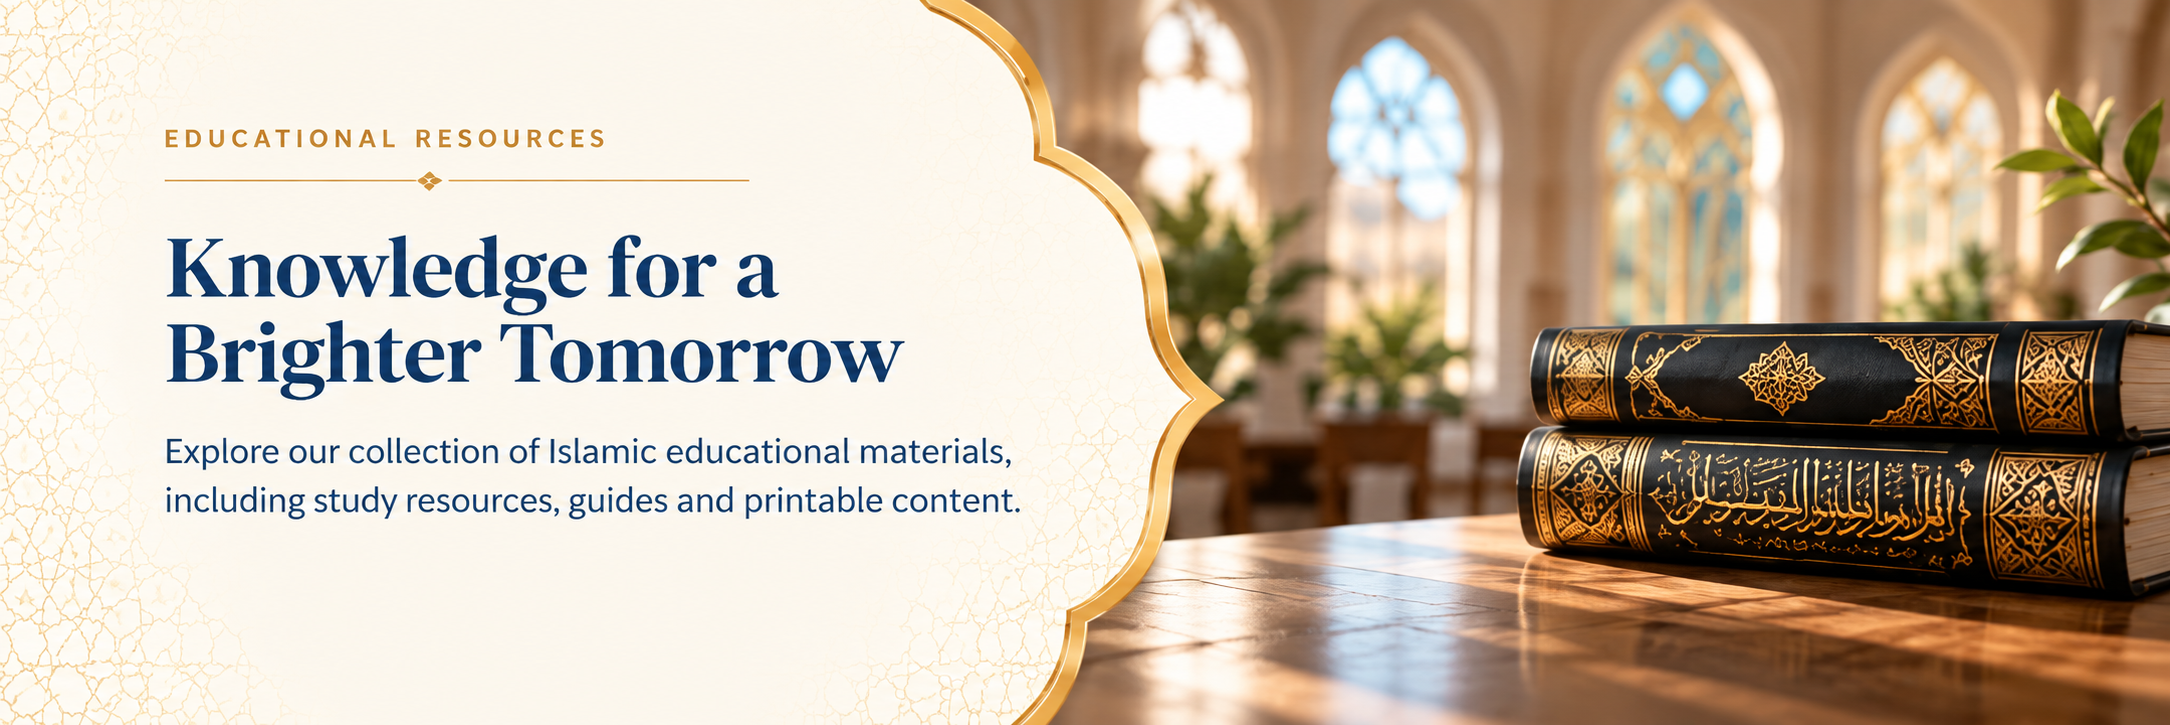
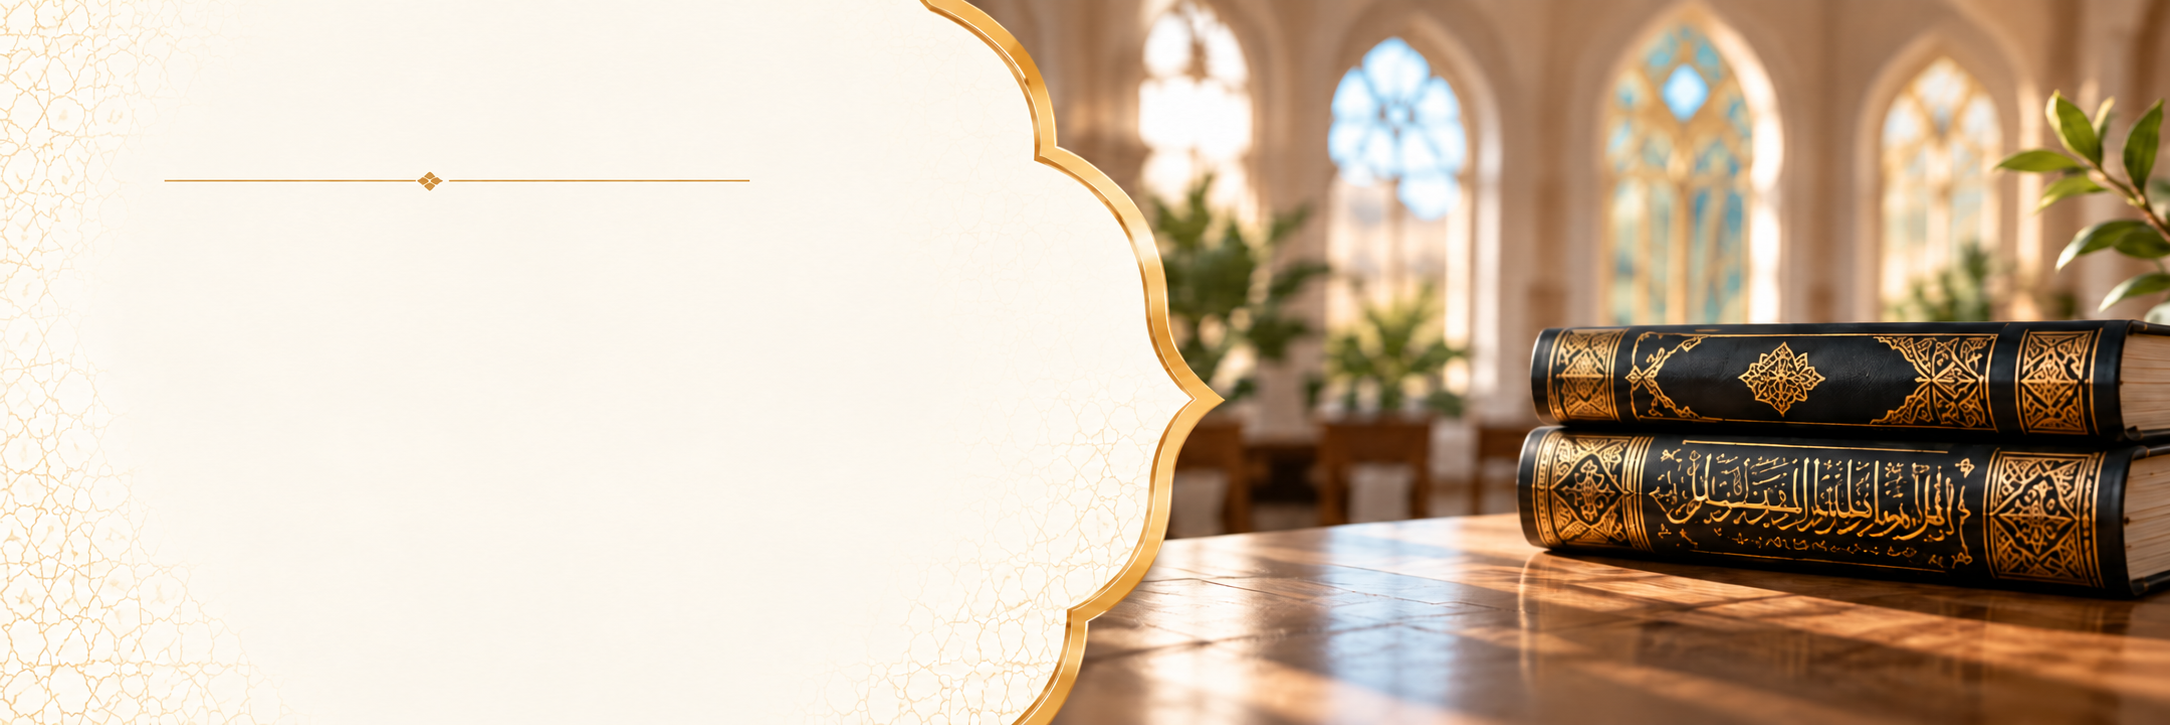
Educational Content (desktop): new blank image with live heading and paragraph. Guard lifted for this commit at the owner's request. Co-Authored-By: Claude Haiku 5.5 <noreply@anthropic.com>

diff --git a/tahfizul-quran/styles.css b/tahfizul-quran/styles.css
@@ -3003,3 +3003,14 @@ ul { list-style: none; }
 @media (min-width: 901px) {
   #stickyCloneHeader .main-nav a { padding: 8px 9px; }
 }
+
+/* Educational Content hero: live text over the blank image (desktop). Frame is the image's proportions, so text stays on the panel. */
+@media (min-width: 901px) {
+  .edu-hero-image { position: relative; container-type: inline-size; }
+  .edu-hero-text { position: absolute; left: 7.4%; top: 28%; width: 36%; color: #1a2a56; pointer-events: none; }
+  .edu-hero-title { font-family: var(--font-heading); font-weight: 700; font-size: 3.4cqw; line-height: 1.12; color: #1a2a56; margin: 0 0 1.6cqw; }
+  .edu-hero-sub { font-family: var(--font-body); font-size: 1.35cqw; line-height: 1.55; color: #1a2a56; margin: 0; }
+}
+@media (max-width: 900px) {
+  .edu-hero-text { display: none; }
+}

diff --git a/tahfizul-quran/educational-content.html b/tahfizul-quran/educational-content.html
@@ -74,6 +74,10 @@
 </div>
 <section class="edu-hero-image">
   <img src="images/educationalcontent.png" alt="Educational Content" class="edu-hero-img">
+  <div class="edu-hero-text">
+    <h1 class="edu-hero-title">Knowledge for a<br>Brighter Tomorrow</h1>
+    <p class="edu-hero-sub">Explore our collection of Islamic educational materials, including study resources, guides and printable content.</p>
+  </div>
 </section>
 <section class="edu-content-section">
   <div class="edu-library-header">
